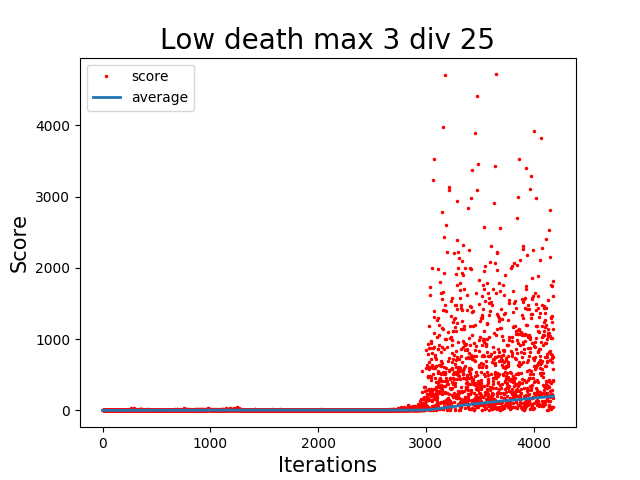
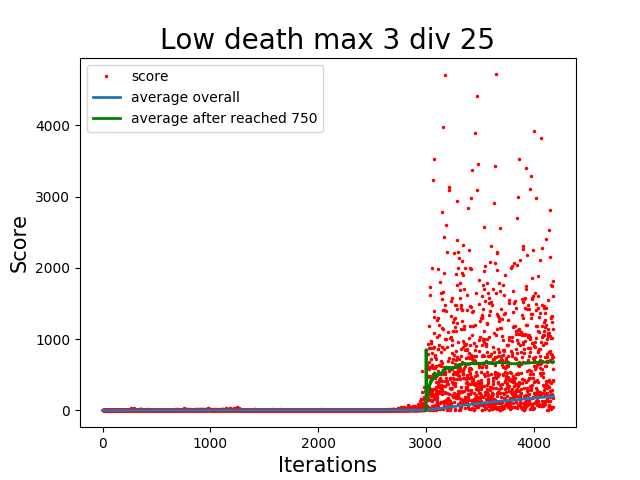
Add files via upload

Changed region(s): [[0.125, 0.1875, 0.5, 0.2812], [0.6562, 0.7188, 0.875, 0.8438]]

diff --git a/low_death max 3 divided by 25/ploting_scores.py b/low_death max 3 divided by 25/ploting_scores.py
@@ -26,17 +26,29 @@ n = len(x)
 
 timer = n * 1.5
 timer += sum(y)*0.6
-pretty_time = time.strftime('%d:%H:%M:%S', time.gmtime(timer))
-days = int(pretty_time.split(':')[0])
+pretty_time = time.strftime('%dd:%Hh:%Mm:%Ss', time.gmtime(timer))
+days = int(pretty_time.split(':')[0][:2])
 days = days-1
 pretty_time = str(int(days / 10))+str(int(days %10))+pretty_time[2:]
 
 
-print("Timer: ", pretty_time, "\nIterations: ", n, "\nAverage score: ", mean(y), )
+stable_x = 0
+for i in y:
+    if i > 750:
+        break
+    stable_x +=1
 
+stable_x_list = x[stable_x:]
+stable_y_list = y[stable_x:]
+avg_list_better = [mean_with_length(stable_y_list,i) for i in range(len(stable_y_list))]
+
+
+print("Timer: ", pretty_time, "\nIterations: ", n, "\nAverage overall: ", mean(y))
+print("Average after reached 750: ", mean(stable_y_list),"\nMax: ", max(y))
 
 plt.plot(x,y,'r.', label = 'score', ms = 3)
-plt.plot(x,avg_list, lw = 2, label = 'average')
+plt.plot(x,avg_list, lw = 2, label = 'average overall')
+plt.plot(stable_x_list, avg_list_better, label = 'average after reached 750', lw = 2, color = 'green')
 plt.xlabel('Iterations', fontsize = 15)
 plt.ylabel('Score', fontsize = 15)
 plt.title('Low death max 3 div 25', fontsize = 20)
